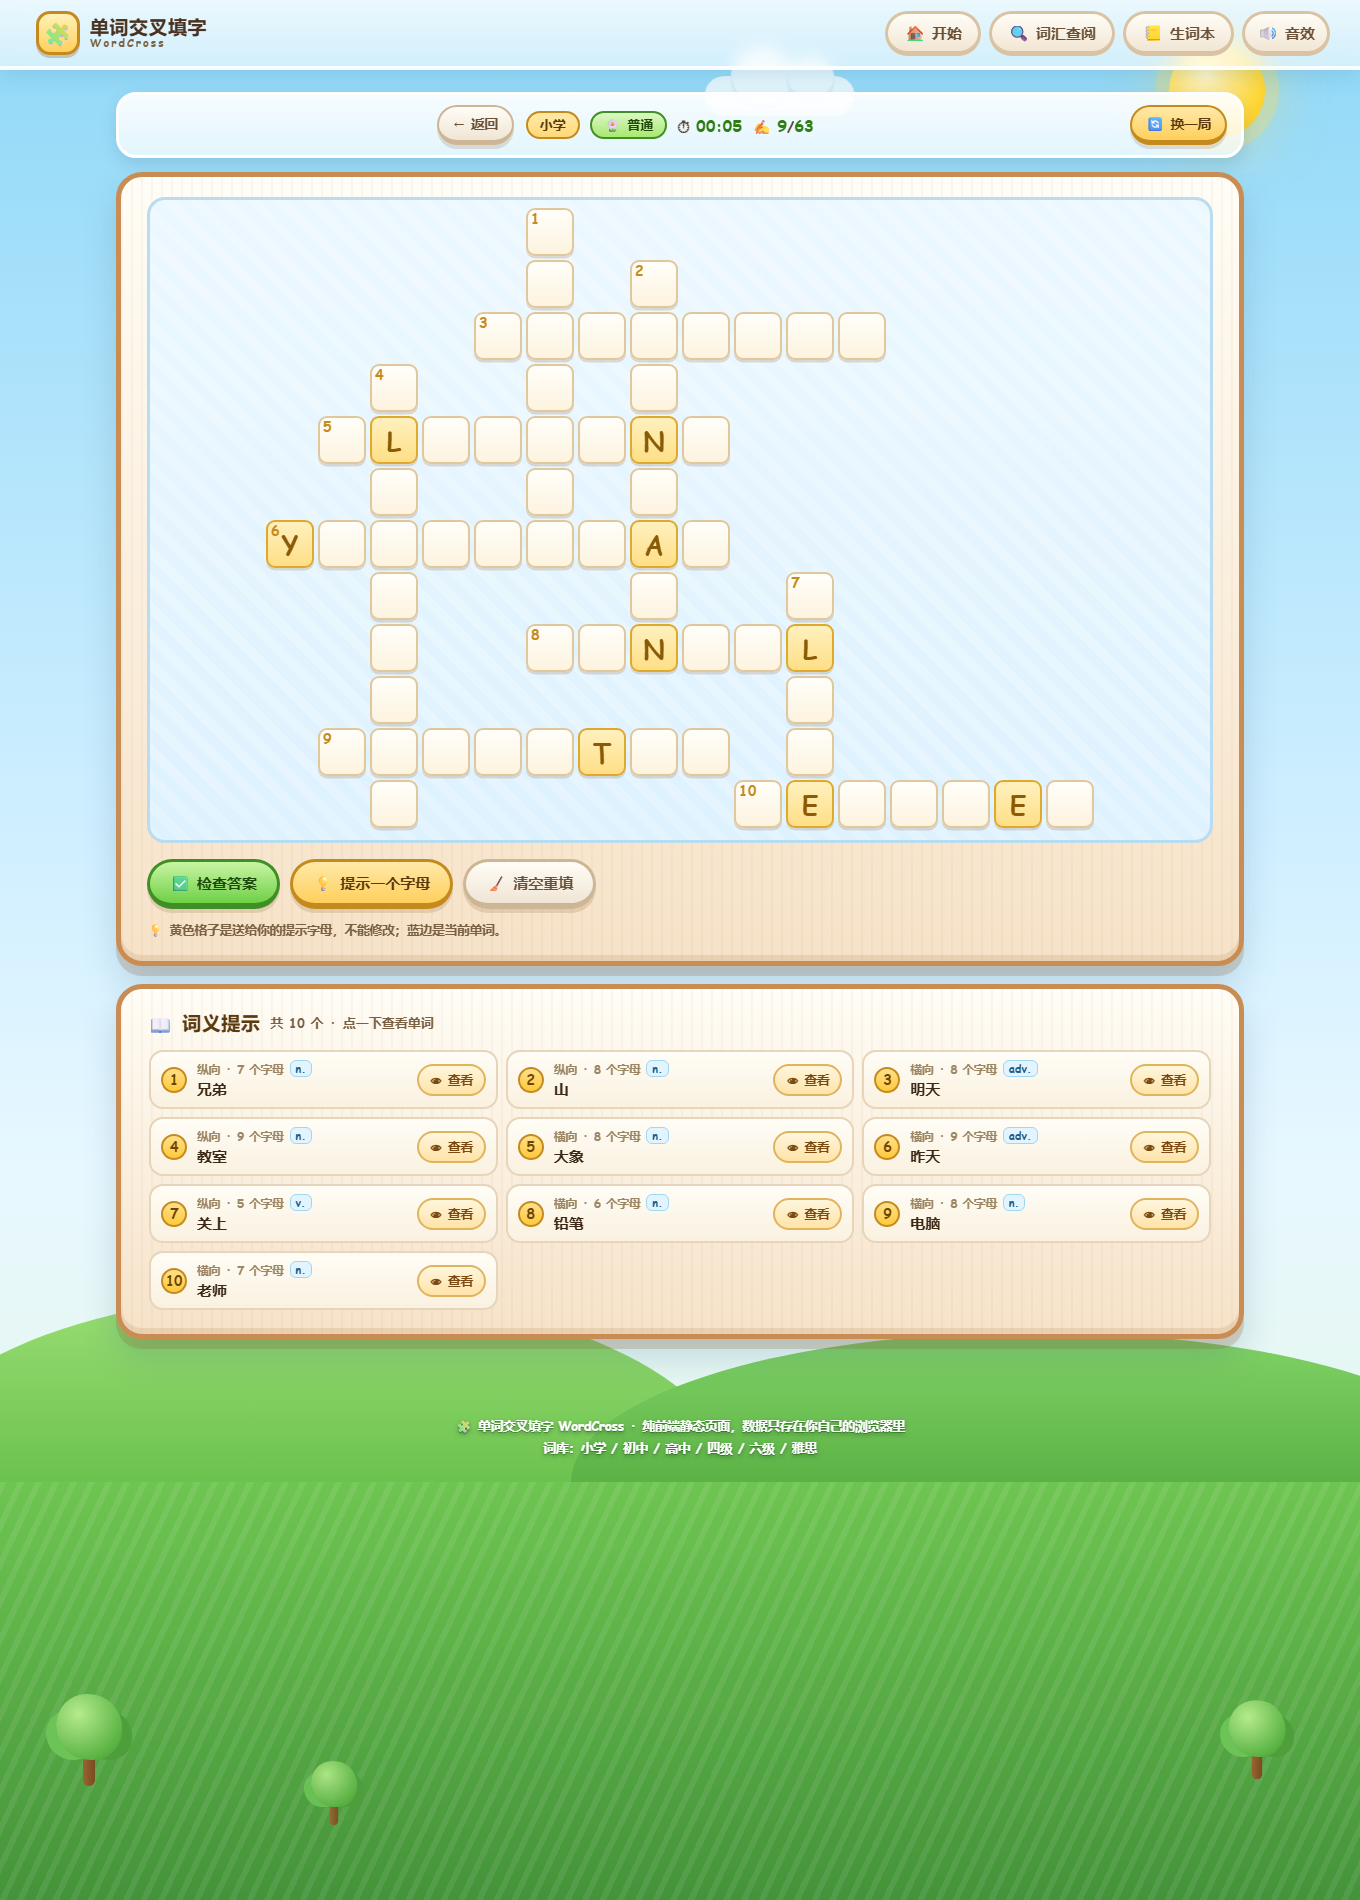
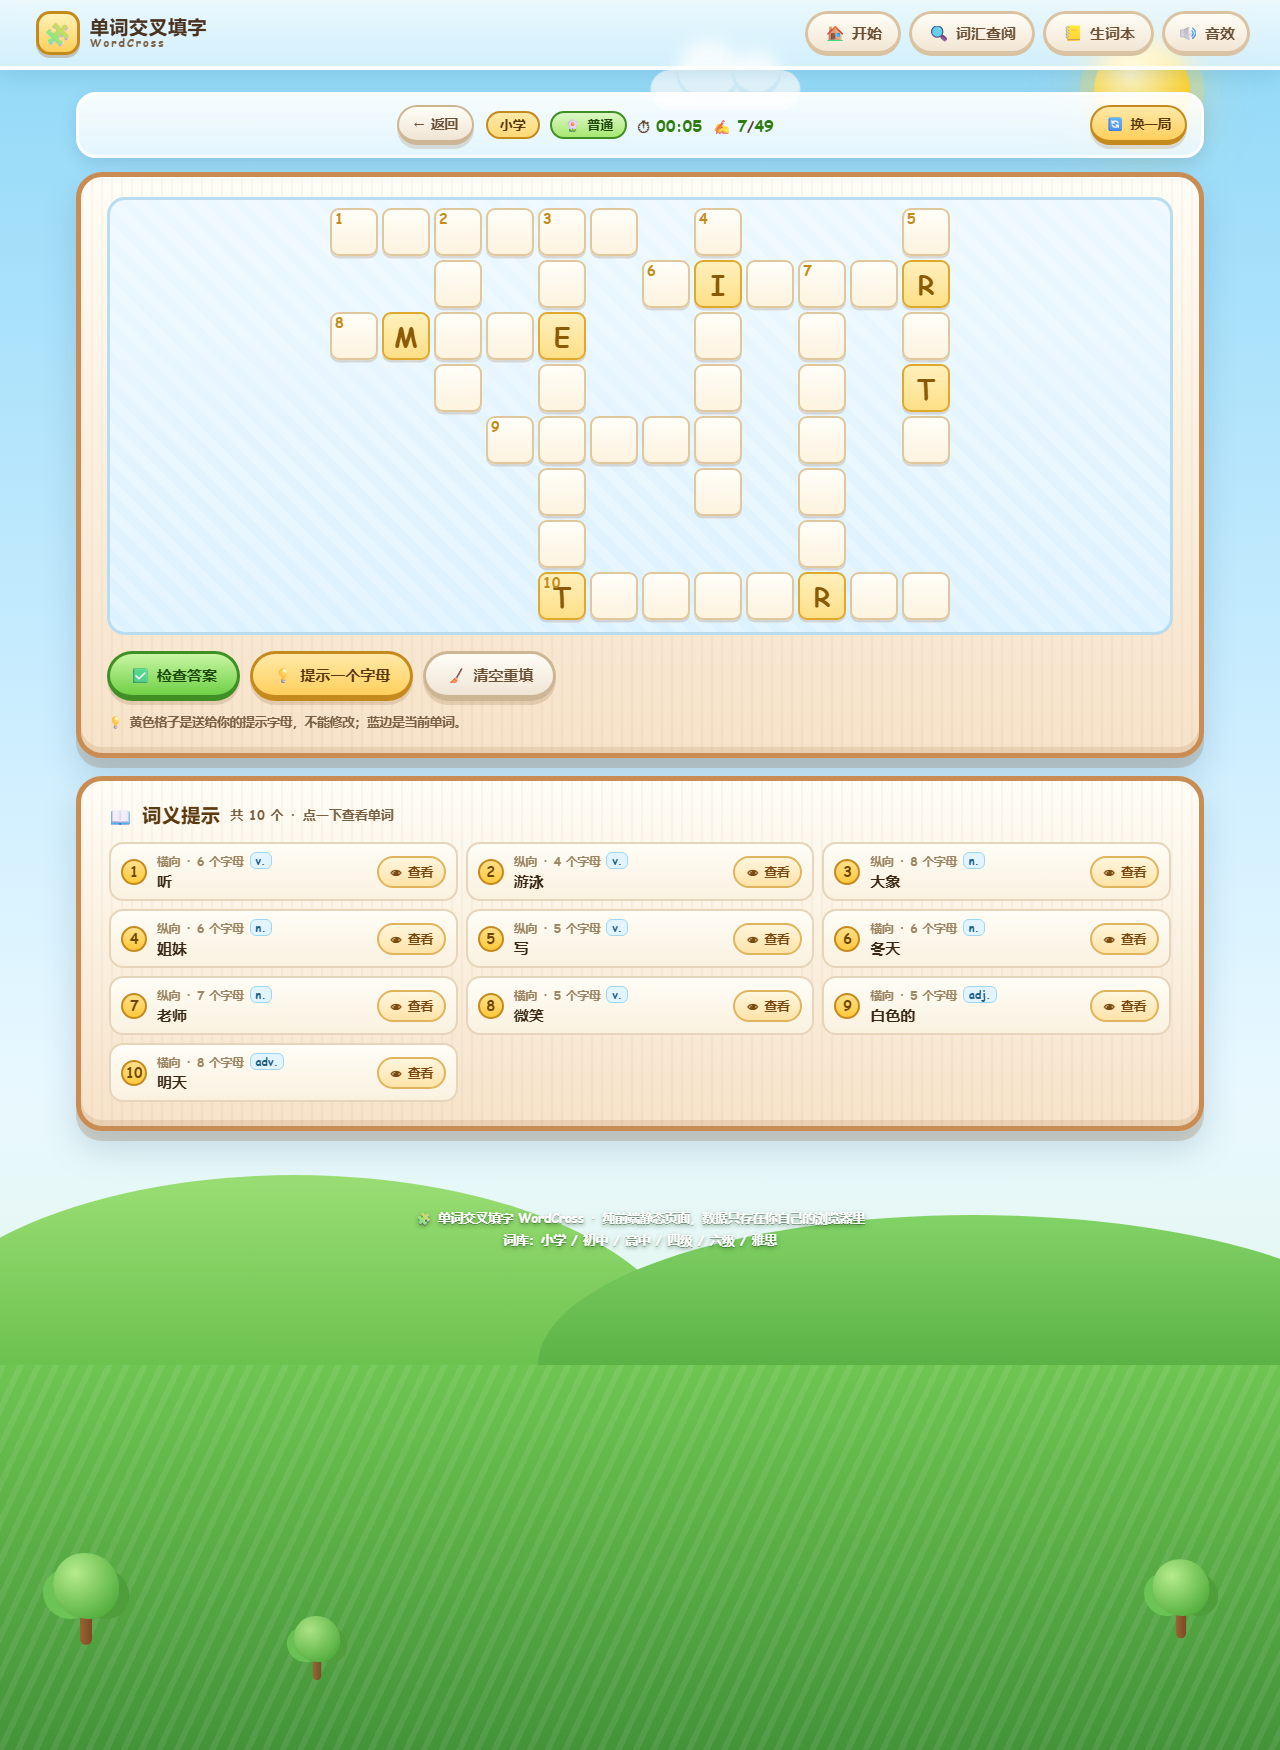
docs: 写入真实仓库地址与在线链接，更新首页/游戏页截图

diff --git a/README.md b/README.md
@@ -8,6 +8,8 @@
 > 纯前端静态页面（原生 HTML + CSS + JavaScript，零依赖、零后端、零 API 调用）。
 > 所有数据都存在浏览器本地，打开网页就能玩，**不消耗任何 AI 积分**，可以随便发给别人用。
 
+🔗 **在线试玩：** <https://da20000208.github.io/word-cross/>　·　备用地址 <https://word-cross-puzzle.app.workbuddy.host/>
+
 ![首页](docs/screenshot-home.png)
 
 ## ✨ 功能一览
@@ -176,19 +178,35 @@ words: [
 
 ## 🌐 发布到 GitHub Pages
 
-```bash
-# 1. 在 GitHub 上新建一个空仓库，比如 word-cross（不要勾选 Add README）
-# 2. 关联远程仓库并推送，把 <你的用户名> 换成你自己的
-git remote add origin https://github.com/<你的用户名>/word-cross.git
-git branch -M main
-git push -u origin main
+仓库地址：<https://github.com/da20000208/word-cross>
 
-# 3. 打开仓库 Settings → Pages
-#    Source 选 "Deploy from a branch"，Branch 选 main，目录选 /(root)，保存
+本地仓库已经关联好远程（`origin`）并切到 `main` 分支，只需要推送一次：
+
+```bash
+git push -u origin main
+# 首次推送会弹出 GitHub 登录窗口（浏览器授权），授权后自动完成
 ```
 
-等一两分钟，访问 `https://<你的用户名>.github.io/word-cross/` 就能在线玩了。
+推送完成后开启 Pages：
+
+1. 打开 <https://github.com/da20000208/word-cross/settings/pages>
+2. **Source** 选 `Deploy from a branch`
+3. **Branch** 选 `main`，目录选 `/(root)`，点 **Save**
+
+等一两分钟，访问 <https://da20000208.github.io/word-cross/> 就能在线玩了。
 谁都能直接打开，不需要安装任何东西。（仓库里的 `.nojekyll` 是为了让 GitHub Pages 原样输出文件，别删。）
+
+> 另外还有一个已经部署好的在线地址：<https://word-cross-puzzle.app.workbuddy.host/>，两者内容一致。
+
+### 更新线上内容
+
+以后改了代码，三条命令即可同步：
+
+```bash
+git add -A
+git commit -m "描述这次改了什么"
+git push
+```
 
 ## 📄 License
 
